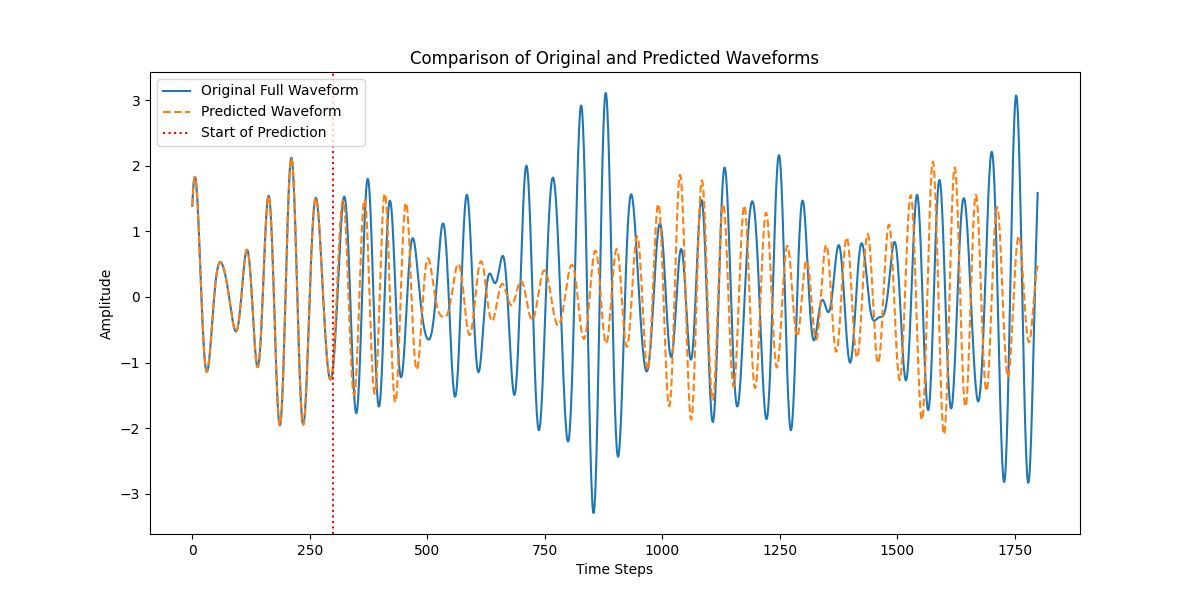
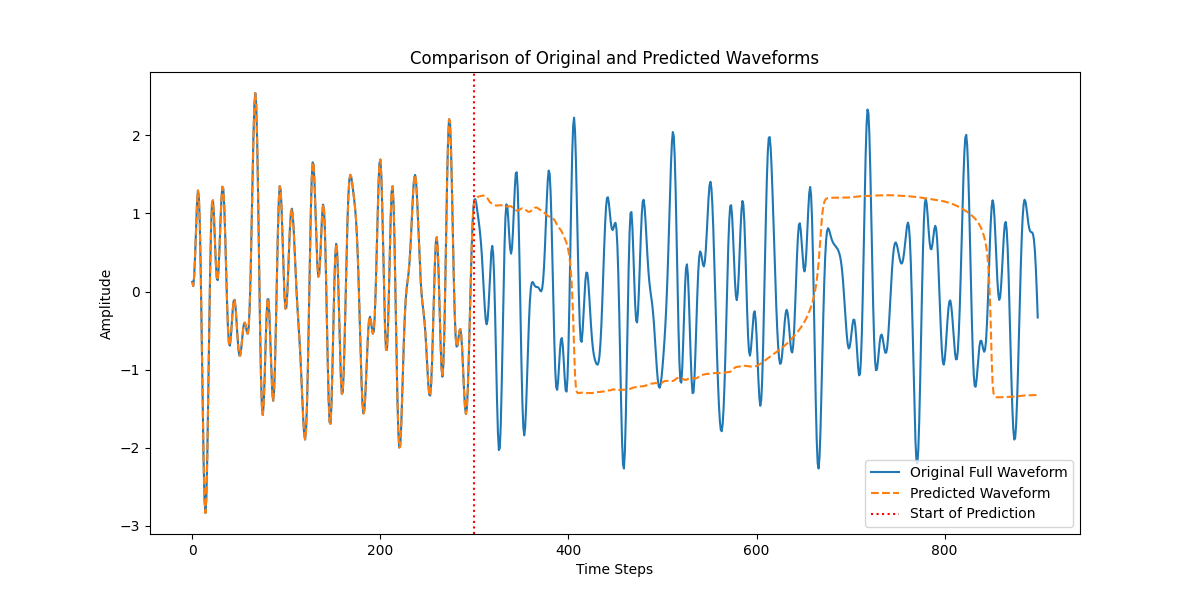
more readable

diff --git a/playground/playground.py b/playground/playground.py
@@ -111,12 +111,12 @@ def prepare_data(waveforms, base_sequence_length, split_ratio=0.8):
 if __name__ == "__main__":
     wandb.init(project="transformer-poc", config={"architecture": "initial", "dataset": "waves"})
 
-    num_epochs = 1
-    num_sequences = 20
+    num_epochs = 150
+    num_sequences = 40
     base_sequence_length = 300
-    full_sequence_length = base_sequence_length * 6
+    full_sequence_length = base_sequence_length * 3
     num_modes = 5
-    freq_range = (25, 50)
+    freq_range = (25, 75)
     amp_range = (0.5, 1.0)
     phase_range = (0, 2 * np.pi)
     batch_size = 256
@@ -179,7 +179,6 @@ if __name__ == "__main__":
         model.eval()
         with torch.no_grad():
             input_sequence = initial_input.clone()
-            print(input_sequence.shape)
             predictions = []
             while len(predictions) < (total_length - initial_input.size(1)):
                 output = model(input_sequence)
